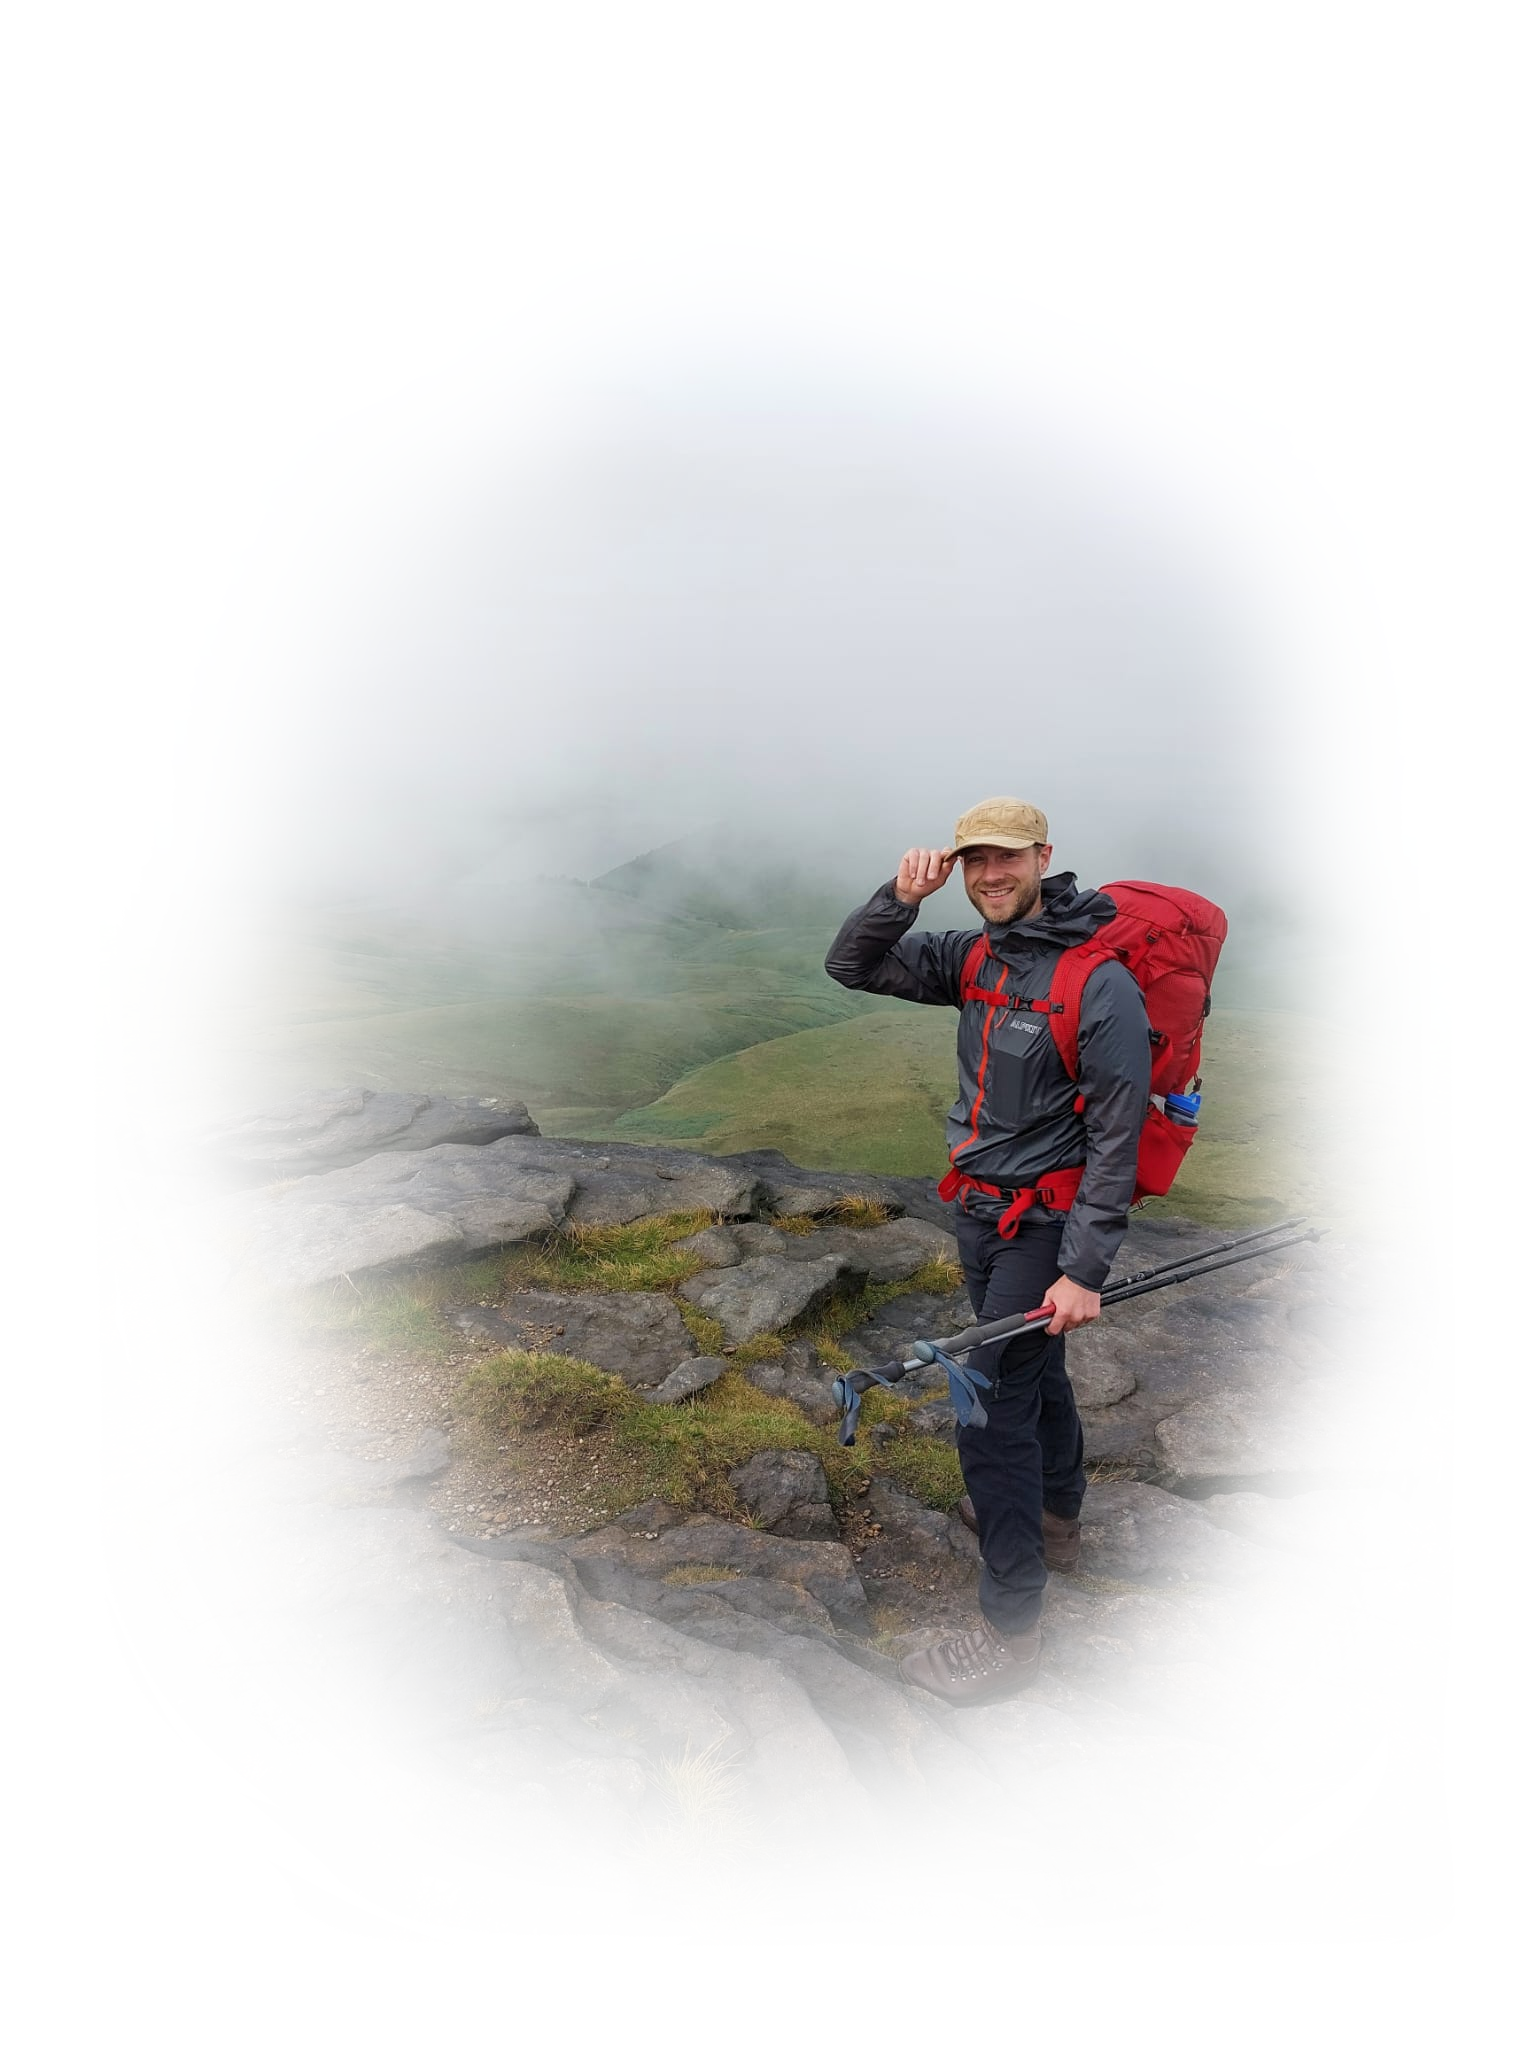
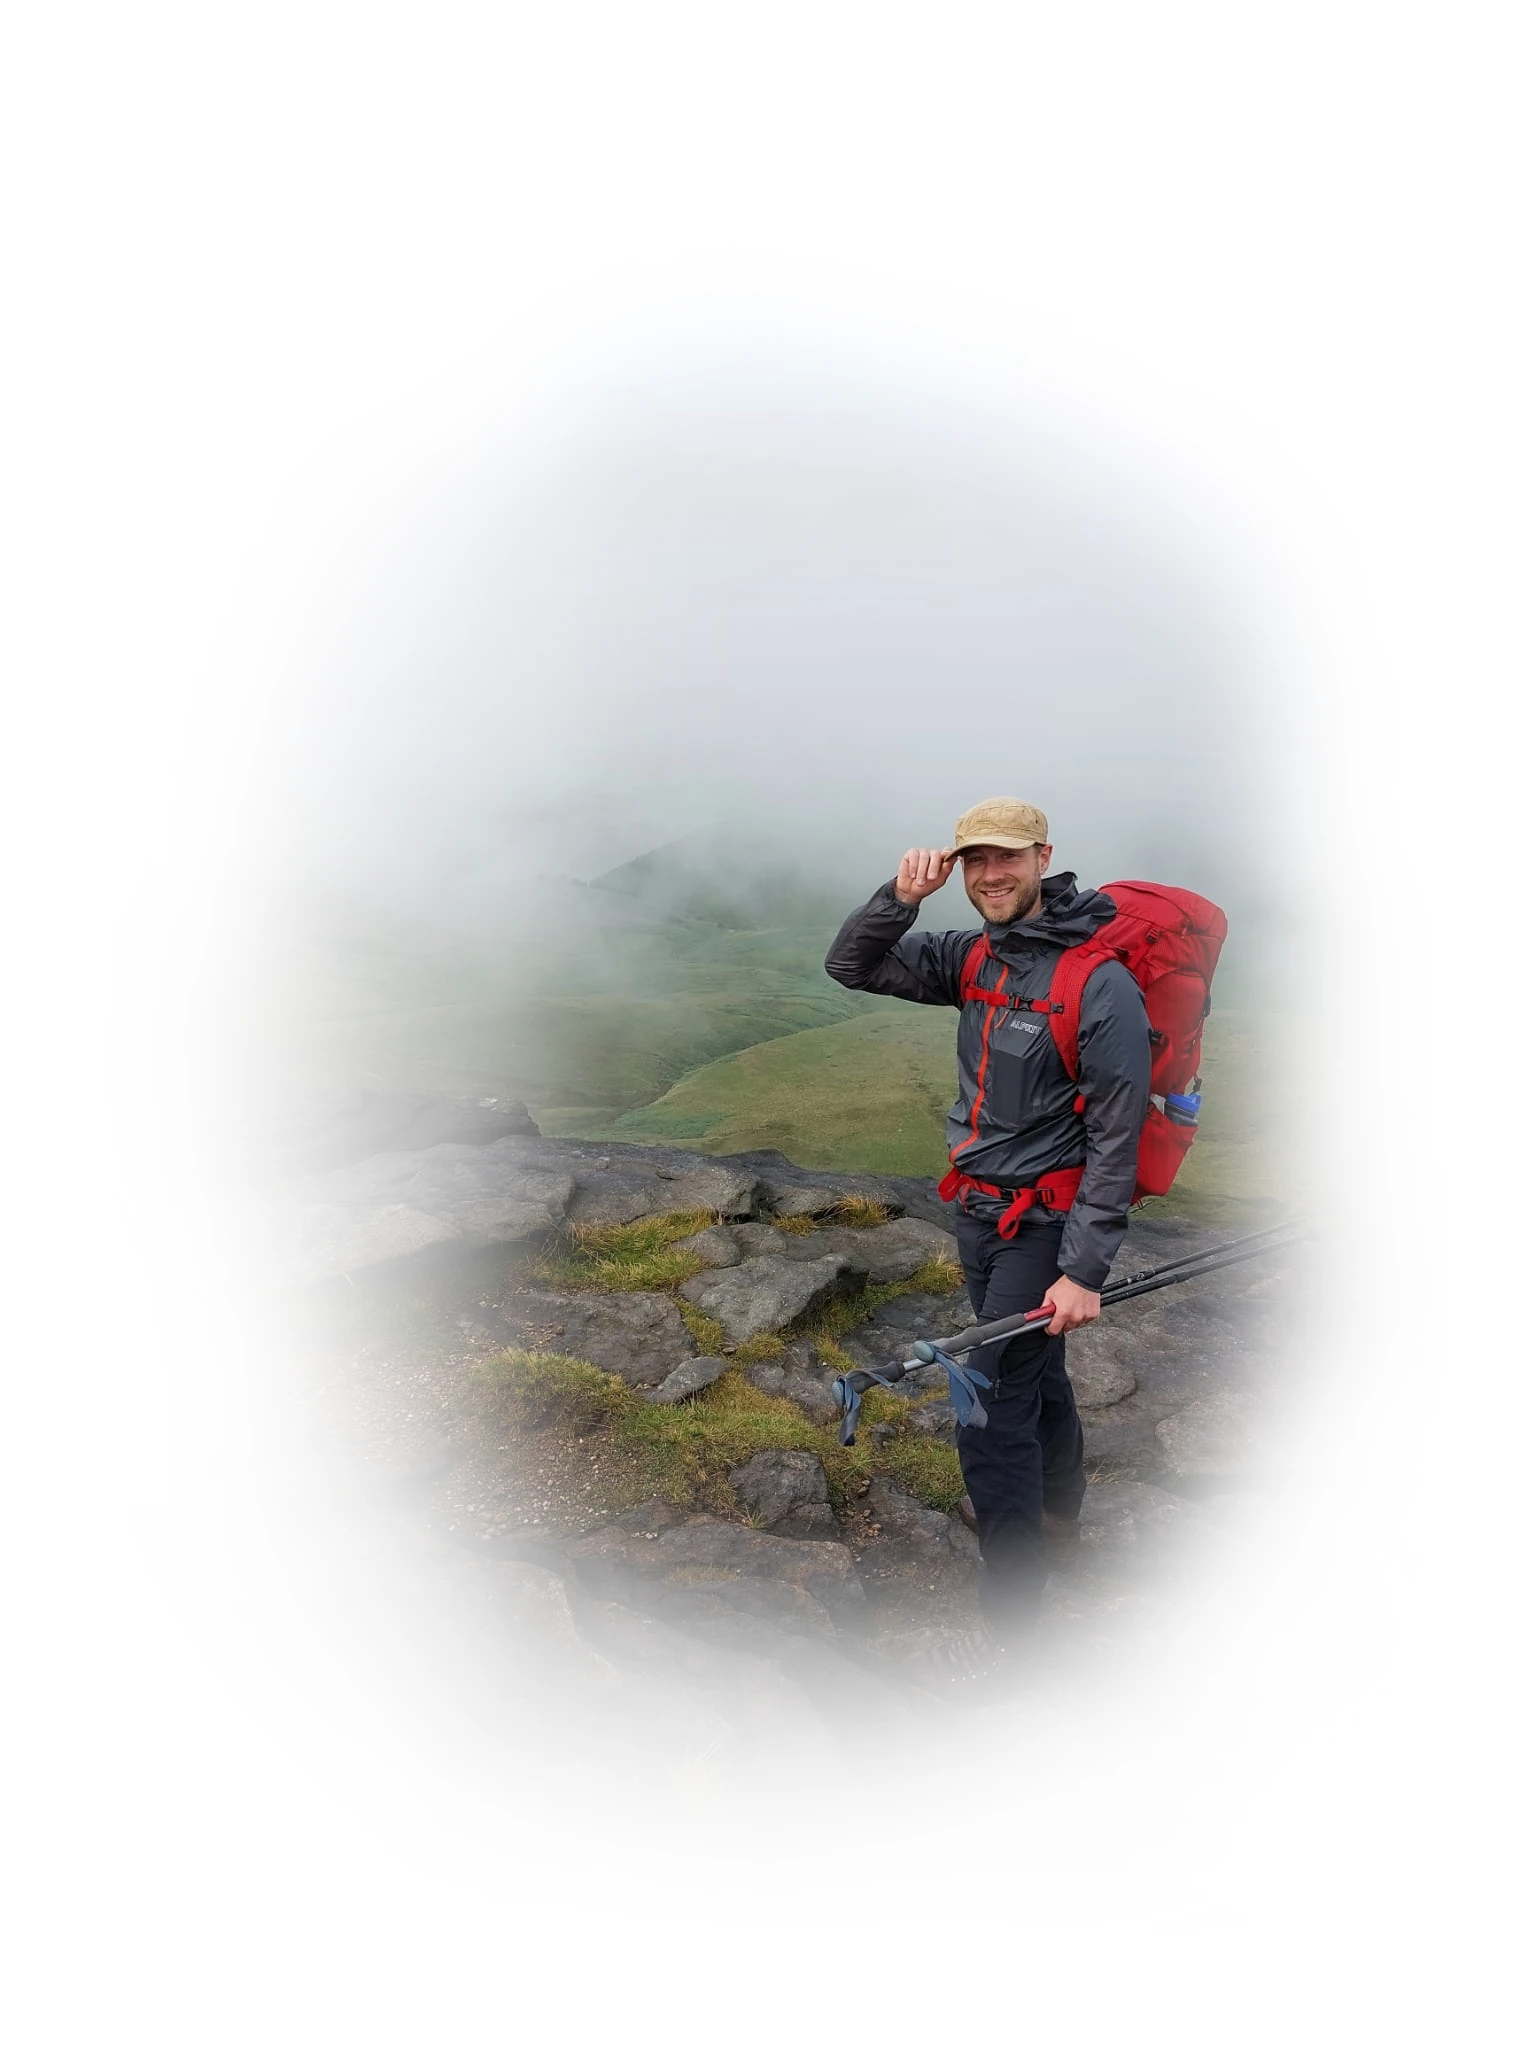
lighthouse optimisations completed

Changed region(s): [[0.1875, 0.4375, 0.875, 0.8438]]

diff --git a/index.html b/index.html
@@ -1,6 +1,13 @@
 <!DOCTYPE html>
 <html lang="en">
   <head>
+    <link
+      rel="preload"
+      fetchpriority="high"
+      as="image"
+      href="./src/assets/backgroundImg.webp"
+      type="image/webp"
+    />
     <meta charset="UTF-8" />
     <meta name="viewport" content="width=device-width, initial-scale=1.0" />
     <meta

diff --git a/src/styling/about.css b/src/styling/about.css
@@ -8,8 +8,8 @@
 #backgroundImg {
   animation: backgroundFade 2s;
   position: fixed;
-  max-height: 150vh;
-  width: auto;
+  height: 150vh;
+  width: 100vh;
   top: -30%;
   bottom: auto;
   left: auto;

diff --git a/src/index.css b/src/index.css
@@ -20,13 +20,7 @@ a {
   text-decoration: underline;
   font-weight: bold;
 }
-a:hover {
-  color: rgb(0, 0, 0);
-}
 
-a:visited {
-  color: #000000;
-}
 body {
   min-height: 100vh;
   margin: 0;
